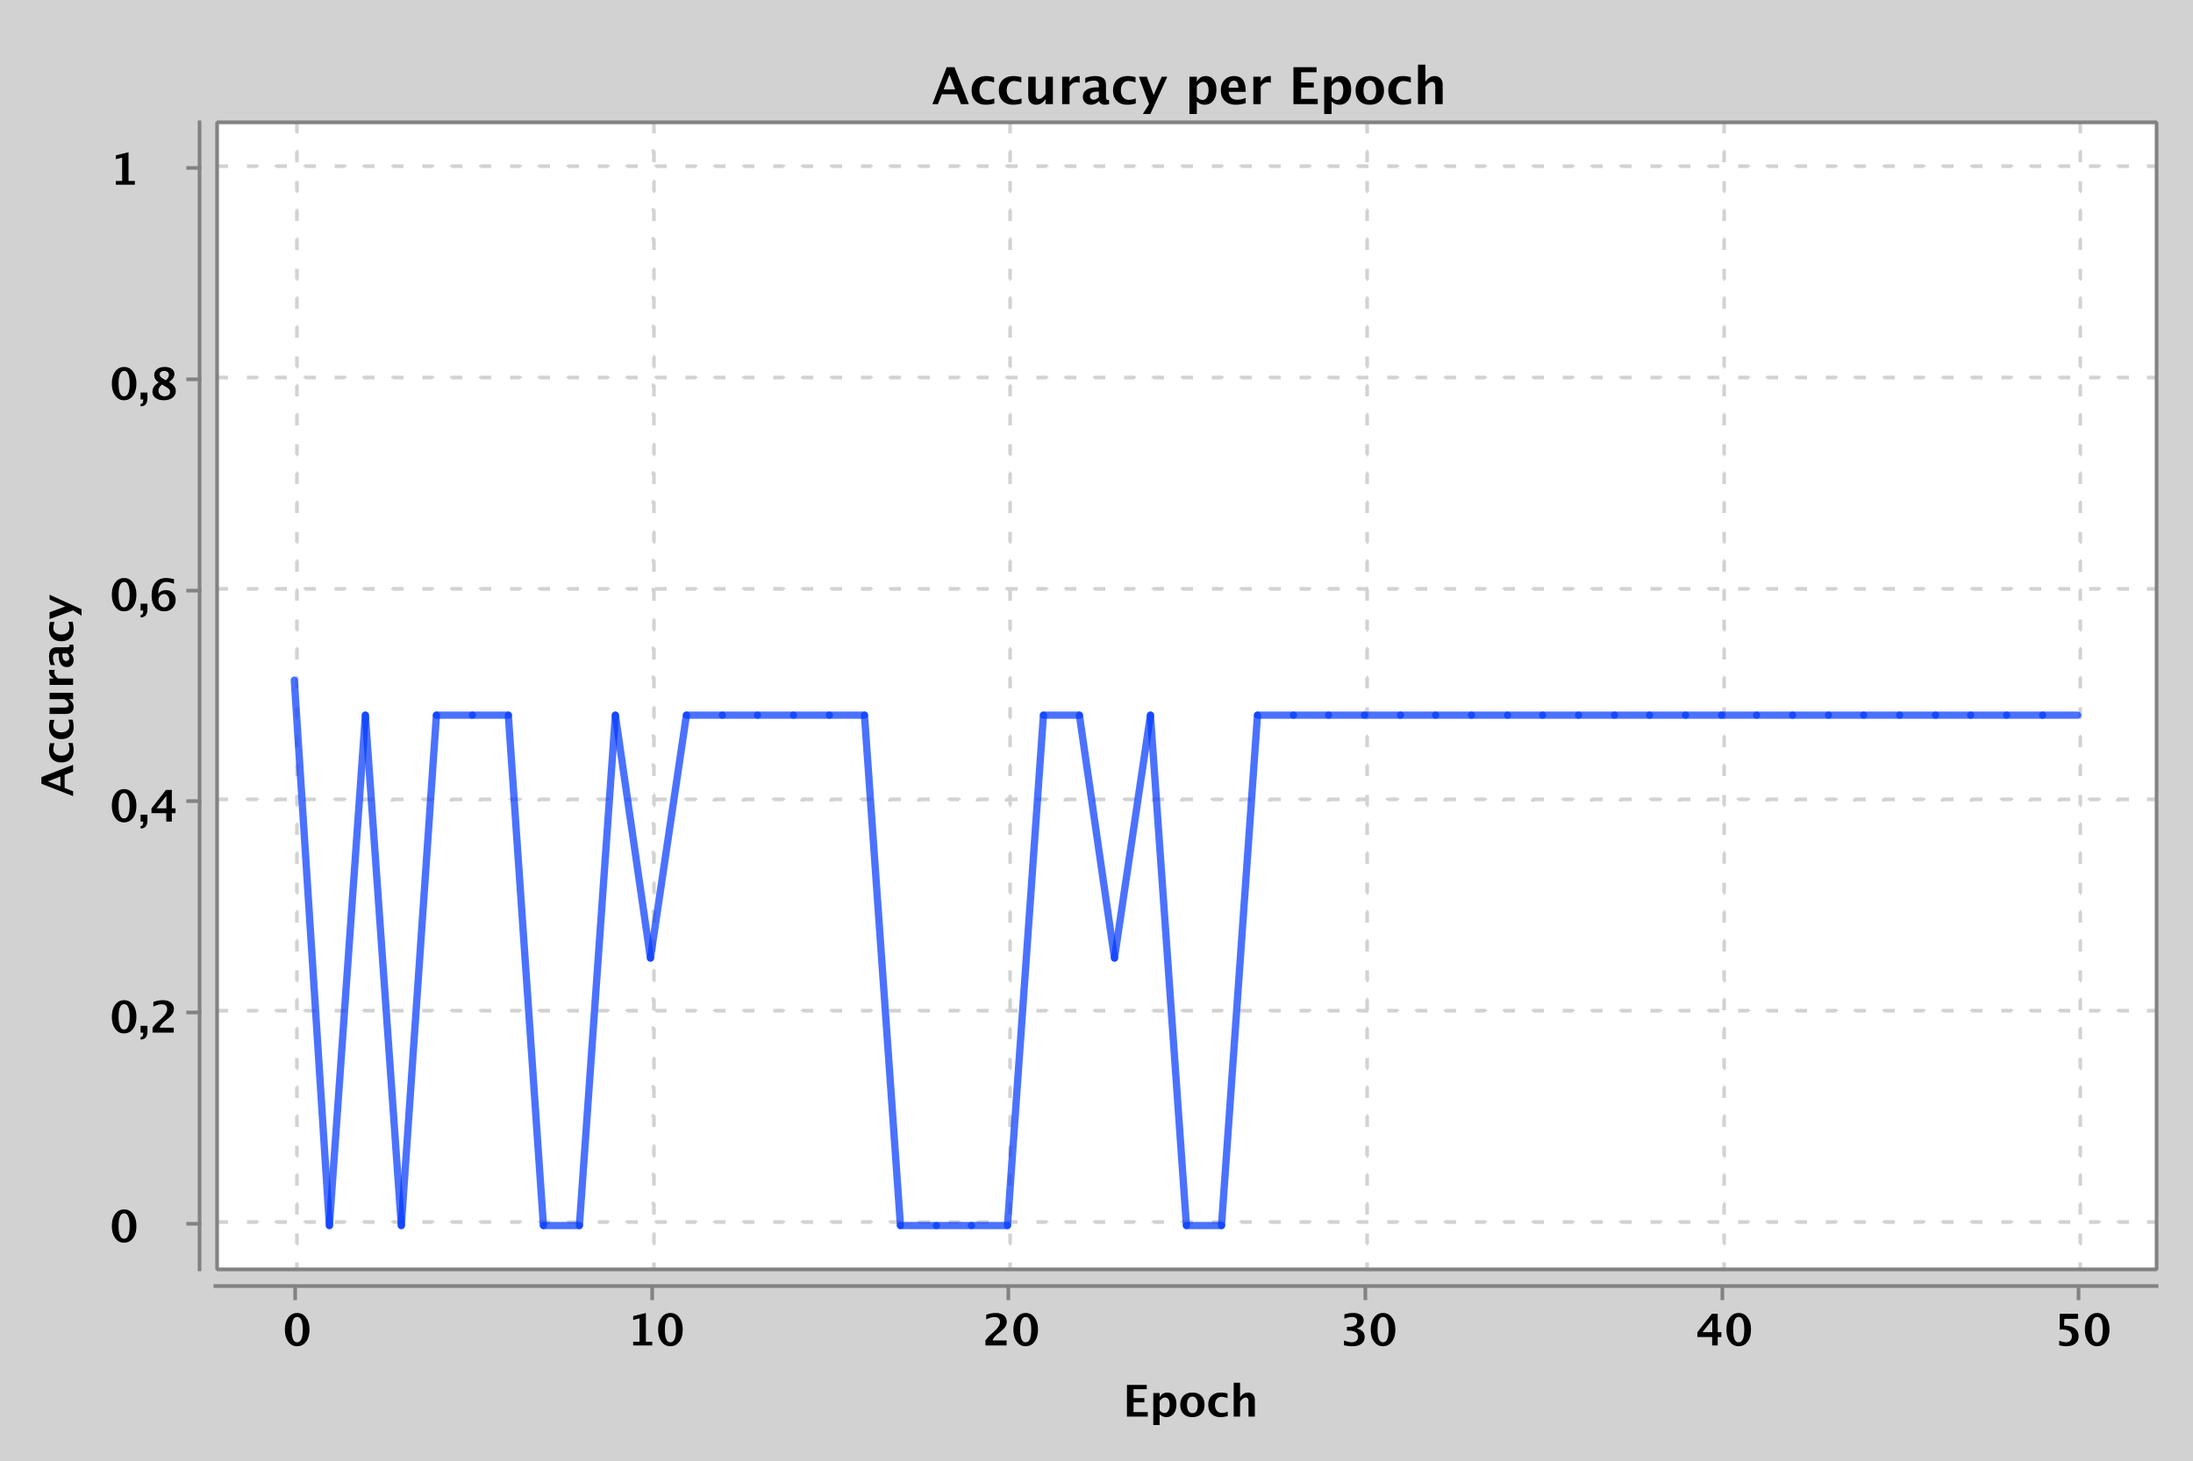
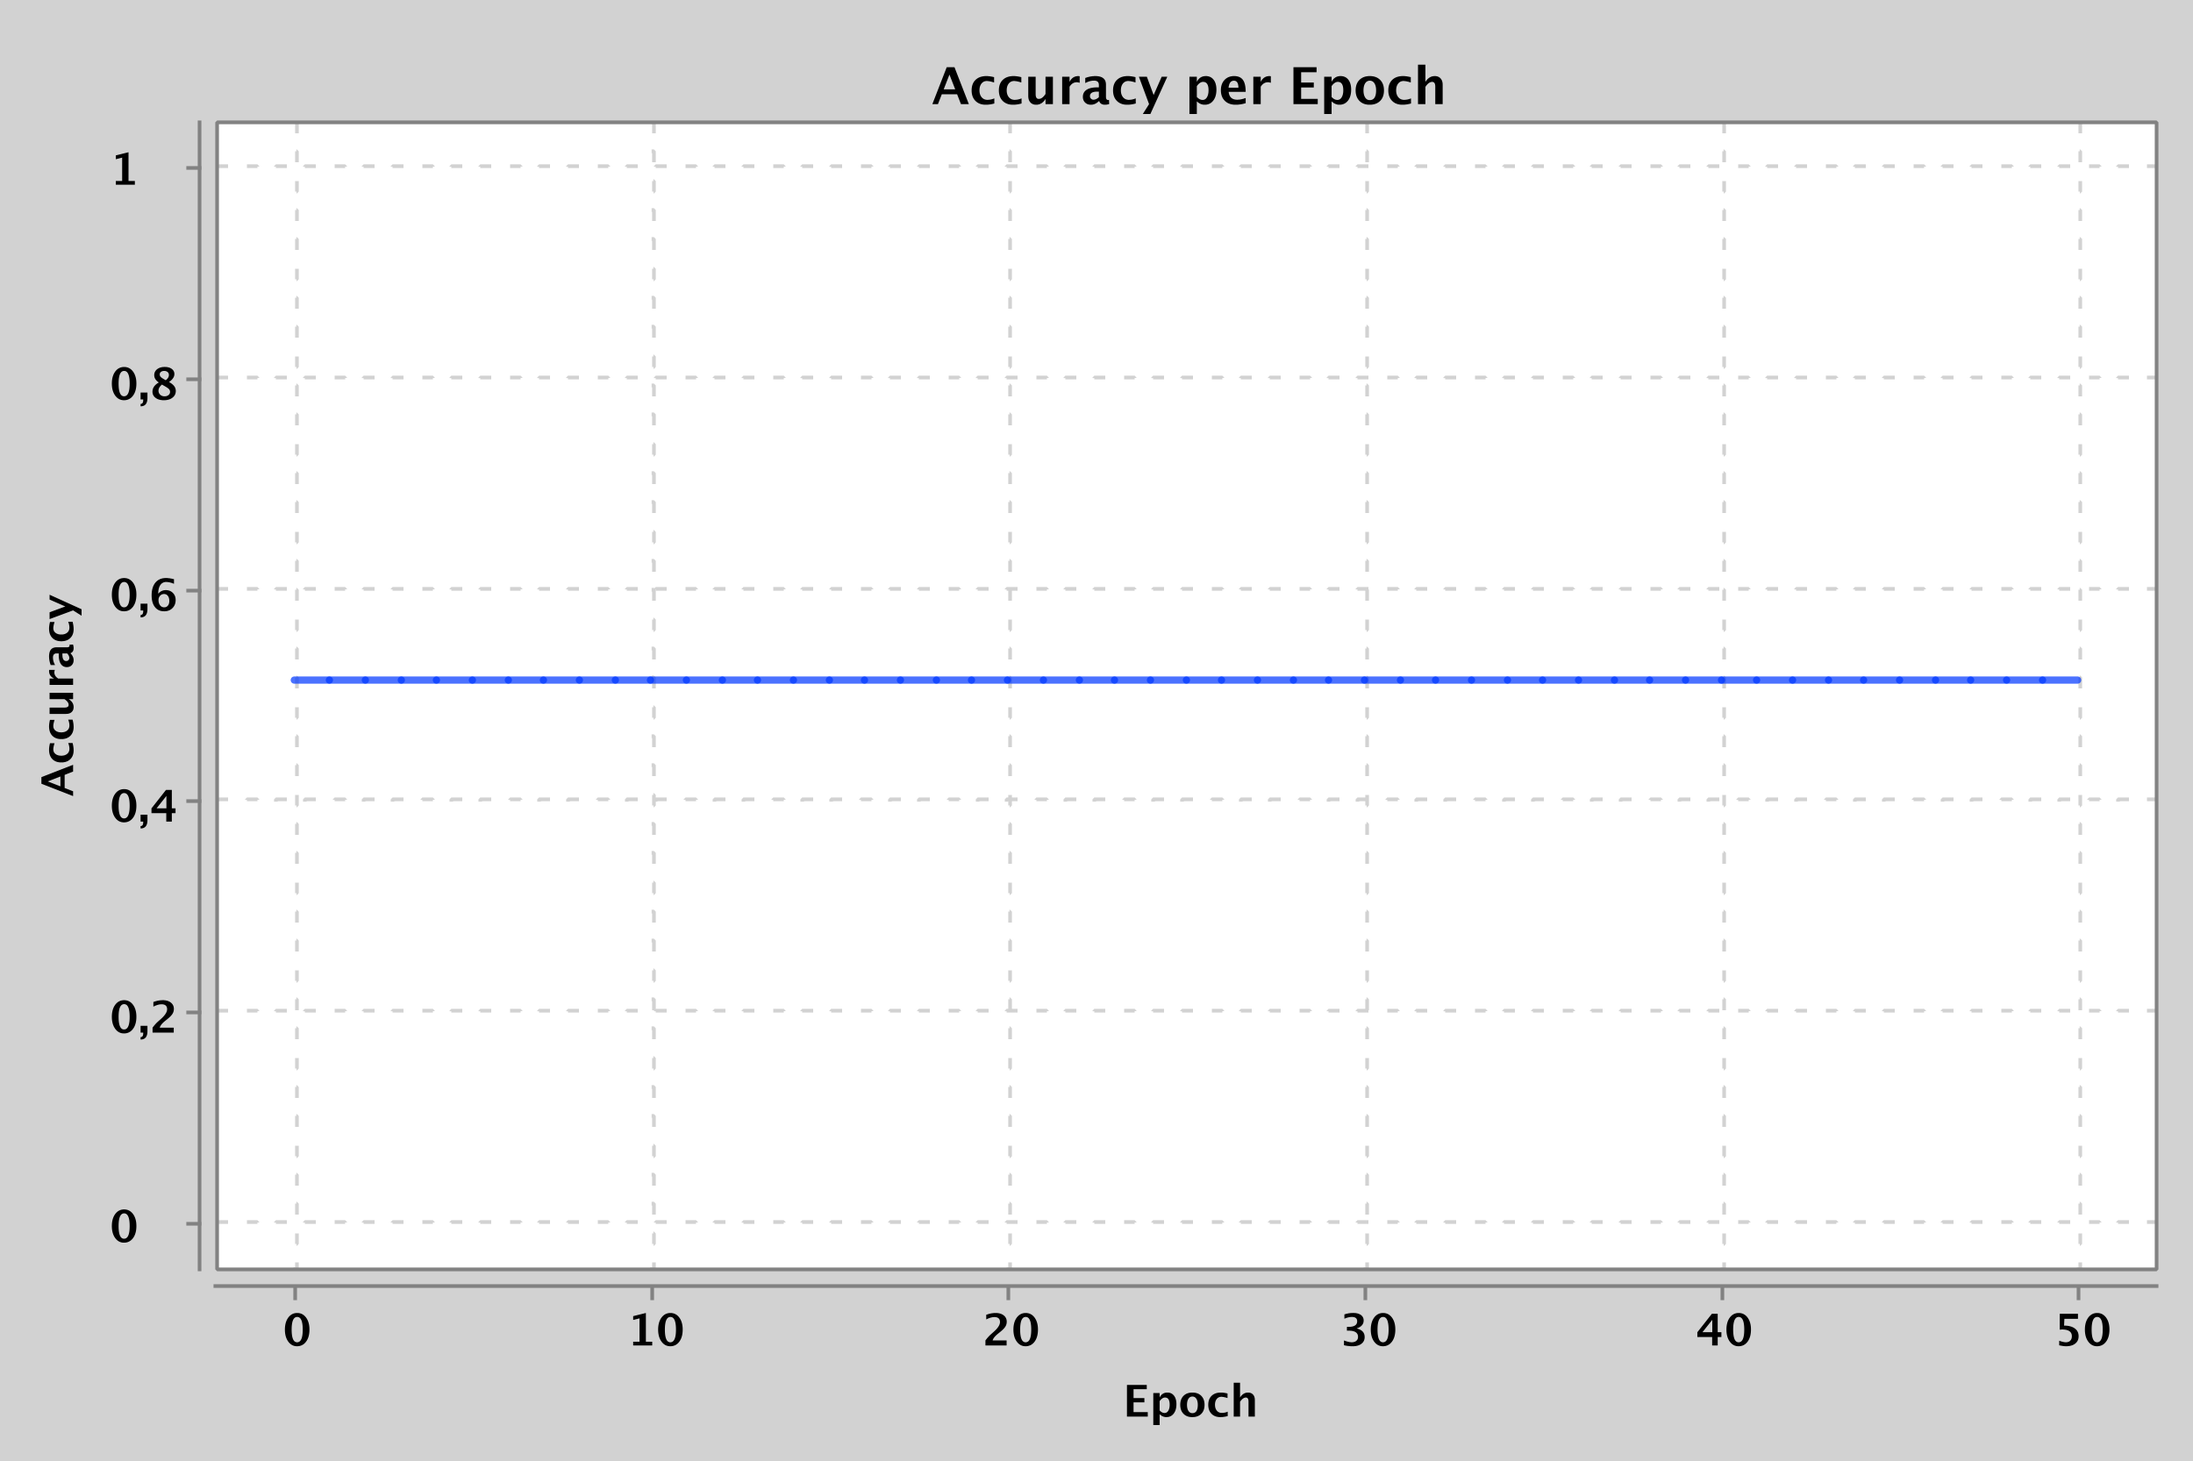
Exploding gradient error

Changed region(s): [[0.1248, 0.437, 0.936, 0.8427], [0.4056, 0.6867, 0.468, 0.8427]]

diff --git a/src/main/java/neuralnetwork/NeuralNetwork.java b/src/main/java/neuralnetwork/NeuralNetwork.java
@@ -165,7 +165,7 @@ public class NeuralNetwork<M> implements Serializable {
     /**
      * Updates weights and biases and resets the batch adjusted deltas.
      */
-    private synchronized void learnFromDeltas() {
+    private void learnFromDeltas() {
         this.weights = this.optimizer.changeWeights(this.weights, this.dW);
         this.biases = this.optimizer.changeBiases(this.biases, this.dB);
 
@@ -185,7 +185,7 @@ public class NeuralNetwork<M> implements Serializable {
         Matrix<M> deltaError = costFunction.applyCostFunctionGradient(a, in.getLabel());
 
         // Iterate over all layers, they are indexed by the last layer
-        for (int k = deltaBiases.size() - 1; k >= 0; k--) {
+        for (int k = totalLayers - 1; k >= 0; k--) {
             final Matrix<M> aCurr = activations.get(k + 1); // this layer
             final Matrix<M> aNext = activations.get(k); // Previous layer
 
@@ -263,16 +263,16 @@ public class NeuralNetwork<M> implements Serializable {
         return avg / size;
     }
 
+    public double testLoss(List<NetworkInput<M>> right) {
+        return loss(feedForwardData(right));
+    }
+
     private double loss(List<NetworkInput<M>> data) {
         return this.costFunction.calculateCostFunction(data);
     }
 
     private double evaluate(final List<NetworkInput<M>> data) {
         return this.evaluationFunction.evaluatePrediction(data);
-    }
-
-    public double testLoss(List<NetworkInput<M>> right) {
-        return loss(feedForwardData(right));
     }
 
     /**
@@ -374,7 +374,7 @@ public class NeuralNetwork<M> implements Serializable {
         double loss = this.loss(ffD);
         metrics.initialPlotData(correct, loss);
 
-        for (int i = 0; i < epochs; i++) {
+        for (int i = 1; i <= epochs; i++) {
 
             // Calculates a batch of training data and update the deltas.
             t1 = System.nanoTime();
@@ -384,20 +384,21 @@ public class NeuralNetwork<M> implements Serializable {
             }
             t2 = System.nanoTime();
 
-            // Feed forward the test data
+            // Feed forward the validation data
+            Collections.shuffle(validation);
             final List<NetworkInput<M>> feedForwardData = this.feedForwardData(validation);
 
             // Evaluate prediction with the interface EvaluationFunction.
-            correct = evaluate(feedForwardData);
+            correct = this.evaluate(feedForwardData);
             // Calculate cost/loss with the interface CostFunction
             loss = this.loss(feedForwardData);
 
             // Add the plotting data, x, y_1, y_2 to the
             // lists of xValues, correctValues, lossValues.
-            metrics.addPlotData(i + 1, correct, loss, (t2 - t1));
+            metrics.addPlotData(i, correct, loss, (t2 - t1));
 
-            if ((i) % (epochs / 8) == 0) {
-                log.info("\n {} / {} epochs are finished.\n Loss: \t {}", (i + 1), epochs, loss);
+            if ((i - 1) % (epochs / 8) == 0) {
+                log.info("\n {} / {} epochs are finished.\n Loss: \t {}", (i), epochs, loss);
             }
         }
 
@@ -472,8 +473,8 @@ public class NeuralNetwork<M> implements Serializable {
 
         for (int i = 0; i < weights.size(); i++) {
             final int[] dims = weightDimensions(i);
-            b.append(String.format("\t\tLayer %d : [%d X %d]%n", (i + 1), dims[0], dims[1]))
-                    .append(String.format("\t\tActivation function from this layer: %s", functions.get(i).getName()))
+            b.append(String.format("\t\tLayer %d : [%d X %d]%n", (i + 1), dims[0], dims[1])).append(
+                    String.format("\t\tActivation function from this layer: %s", functions.get(i + 1).getName()))
                     .append("\n");
         }
 

diff --git a/src/main/java/optimizers/ADAM.java b/src/main/java/optimizers/ADAM.java
@@ -15,6 +15,7 @@ public class ADAM<M> implements Optimizer<M> {
      */
     private static final long serialVersionUID = -1433313645095435888L;
     private static final String NAME = "Adaptive Moment Estimation";
+    private static final double epsilon = 1e-8;
     private final double lR;
     private final double beta1;
     private final double beta2;
@@ -29,7 +30,6 @@ public class ADAM<M> implements Optimizer<M> {
 
     @Override
     public List<Matrix<M>> changeWeights(final List<Matrix<M>> weights, final List<Matrix<M>> deltas) {
-        log.info("{}",getAdamDeltas(weights, deltas, this.weightM, this.weightN));
         return getAdamDeltas(weights, deltas, this.weightM, this.weightN);
     }
 
@@ -38,9 +38,13 @@ public class ADAM<M> implements Optimizer<M> {
         return getAdamDeltas(biases, deltas, this.biasM, this.biasN);
     }
 
-    private List<Matrix<M>> getAdamDeltas(final List<Matrix<M>> inParams, final List<Matrix<M>> paramDeltas, final List<Matrix<M>> M,
-                                          final List<Matrix<M>> N) {
+    private List<Matrix<M>> getAdamDeltas(final List<Matrix<M>> inParams, final List<Matrix<M>> paramDeltas,
+            final List<Matrix<M>> M, final List<Matrix<M>> N) {
         List<Matrix<M>> newOut = new ArrayList<>(inParams.size());
+
+        for (int i = 0; i < inParams.size(); i++) {
+            newOut.add(i, null);
+        }
 
         for (int i = 0; i < inParams.size(); i++) {
             int exponent = i + 1;
@@ -49,15 +53,19 @@ public class ADAM<M> implements Optimizer<M> {
             if (M.get(i) != null && N.get(i) != null) {
                 // m = beta_1 * m + (1 - beta_1) * g
                 // v = beta_2 * v + (1 - beta_2) * np.power(g, 2)
-                M.set(i, M.get(i).multiply(beta1).add(paramDeltas.get(i)).multiply((1 - beta1)));
-                N.set(i, N.get(i).multiply(beta2).add(paramDeltas.get(i).multiply(paramDeltas.get(i)).multiply((1 - beta2))));
+                Matrix<M> m = M.get(i).multiply(beta1).add(paramDeltas.get(i).multiply((1 - beta1)));
+                Matrix<M> v = N.get(i).multiply(beta2)
+                        .add(paramDeltas.get(i).hadamard(paramDeltas.get(i)).multiply((1 - beta2)));
+                M.set(i, m);
+                N.set(i, v);
             } else {
-                M.set(i, paramDeltas.get(i).multiply((1 - beta1)));
-                N.set(i, paramDeltas.get(i).multiply(paramDeltas.get(i).multiply((1 - beta2))));
+                M.set(i, paramDeltas.get(i).multiply(1 - beta1));
+                Matrix<M> fix = paramDeltas.get(i).hadamard(paramDeltas.get(i)).multiply(1 - beta2);
+                N.set(i, fix);
             }
             mHat = M.get(i).divide((1 - Math.pow(beta1, exponent)));
             vHat = N.get(i).divide((1 - Math.pow(beta2, exponent)));
-            Matrix<M> deNom = vHat.mapElements(Math::sqrt).add(10e-8);
+            Matrix<M> deNom = vHat.mapElements(Math::sqrt).add(epsilon);
             Matrix<M> num = mHat.multiply(this.lR);
             Matrix<M> adam = num.divide(deNom);
             newOut.set(i, inParams.get(i).subtract(adam));
@@ -71,6 +79,13 @@ public class ADAM<M> implements Optimizer<M> {
         this.weightN = new ArrayList<>(layers);
         this.biasM = new ArrayList<>(layers);
         this.biasN = new ArrayList<>(layers);
+
+        for (int i = 0; i < layers; i++) {
+            this.weightM.add(null);
+            this.weightN.add(null);
+            this.biasM.add(null);
+            this.biasN.add(null);
+        }
     }
 
     @Override

diff --git a/src/main/java/demos/implementations/SandboxXOR.java b/src/main/java/demos/implementations/SandboxXOR.java
@@ -6,6 +6,8 @@ import java.util.List;
 import java.util.concurrent.ThreadLocalRandom;
 
 import demos.AbstractDemo;
+import math.activations.ActivationFunction;
+import math.activations.LeakyReluFunction;
 import math.activations.TanhFunction;
 import math.error_functions.MeanSquaredCostFunction;
 import math.evaluation.ThresholdEvaluationFunction;
@@ -15,6 +17,7 @@ import neuralnetwork.NeuralNetwork;
 import neuralnetwork.initialiser.InitialisationMethod;
 import neuralnetwork.initialiser.OjAlgoFactory;
 import neuralnetwork.inputs.NetworkInput;
+import optimizers.ADAM;
 import optimizers.StochasticGradientDescent;
 import utilities.types.Pair;
 import utilities.types.Triple;
@@ -35,7 +38,7 @@ public class SandboxXOR extends AbstractDemo<OjAlgoMatrix> {
 
     @Override
     protected Pair<Integer, Integer> epochBatch() {
-        return Pair.of(50, 64);
+        return Pair.of(50, 1);
     }
 
     @Override
@@ -60,13 +63,15 @@ public class SandboxXOR extends AbstractDemo<OjAlgoMatrix> {
 
     @Override
     protected NeuralNetwork<OjAlgoMatrix> createNetwork() {
+        ActivationFunction<OjAlgoMatrix> f = new LeakyReluFunction<>(0.1);
         NeuralNetwork<OjAlgoMatrix> network = new NeuralNetwork<>(
-                new NetworkBuilder<OjAlgoMatrix>(4).setFirstLayer(2).setLayer(3, new TanhFunction<>())
-                        .setLayer(3, new TanhFunction<>()).setLastLayer(1, new TanhFunction<>())
+                new NetworkBuilder<OjAlgoMatrix>(5).setFirstLayer(2).setLayer(35, f).setLayer(35, f)
+                        .setLayer(20, new TanhFunction<>()).setLastLayer(1, f)
                         .setCostFunction(new MeanSquaredCostFunction<>())
                         .setEvaluationFunction(new ThresholdEvaluationFunction<>(0.1))
-                        .setOptimizer(new StochasticGradientDescent<>(0.6)),
-                new OjAlgoFactory(new int[] { 2, 3, 3, 1 }, InitialisationMethod.XAVIER, InitialisationMethod.SCALAR));
+                        .setOptimizer(new ADAM<>(0.001, 0.9, 0.999)),
+                new OjAlgoFactory(new int[] { 2, 35, 35, 20, 1 }, InitialisationMethod.XAVIER,
+                        InitialisationMethod.SCALAR));
         return network;
     }
 

diff --git a/src/main/java/neuralnetwork/initialiser/UJMPFactory.java b/src/main/java/neuralnetwork/initialiser/UJMPFactory.java
@@ -48,12 +48,13 @@ public class UJMPFactory extends ParameterFactory<UJMPMatrix> {
 
     @NotNull
     private List<Matrix<UJMPMatrix>> getDeltaParameters(boolean isBias) {
-        List<Matrix<UJMPMatrix>> deltaBiases = new ArrayList<>();
+        List<Matrix<UJMPMatrix>> deltaParams = new ArrayList<>();
+        InitialisationMethod m = InitialisationMethod.ZERO;
         for (int i = 0; i < this.sizes.length - 1; i++) {
             int current = this.sizes[i + 1];
-            int next = this.sizes[i];
-            deltaBiases.add(new UJMPMatrix(ZERO.initialisationValues(0, current, isBias ? 1 : next), current, isBias ? 1 : next));
+            int next = isBias ? 1 : this.sizes[i];
+            deltaParams.add(new UJMPMatrix(m.initialisationValues(0, current, next), current, next));
         }
-        return deltaBiases;
+        return deltaParams;
     }
 }

diff --git a/src/main/java/math/error_functions/MeanSquaredCostFunction.java b/src/main/java/math/error_functions/MeanSquaredCostFunction.java
@@ -12,14 +12,14 @@ public class MeanSquaredCostFunction<M> implements CostFunction<M> {
 
     @Override
     public double calculateCostFunction(final List<NetworkInput<M>> tData) {
-        return tData.parallelStream().map((e) -> e.getData().subtract(e.getLabel()))
-                .mapToDouble(e -> e.square()).sum() / tData.size();
+        return tData.parallelStream().map((e) -> e.getData().subtract(e.getLabel())).mapToDouble(e -> e.square()).sum()
+                / tData.size();
 
     }
 
     @Override
     public Matrix<M> applyCostFunctionGradient(final Matrix<M> in, final Matrix<M> correct) {
-        return in.subtract(correct).multiply(2);
+        return correct.subtract(in).multiply(2);
     }
 
     @Override

diff --git a/src/main/java/math/activations/LeakyReluFunction.java b/src/main/java/math/activations/LeakyReluFunction.java
@@ -4,7 +4,6 @@ import math.linearalgebra.Matrix;
 
 public class LeakyReluFunction<M> extends ReluFunction<M> {
 
-
     private static final long serialVersionUID = -301187113858930644L;
     private final double alpha;
 
@@ -19,12 +18,13 @@ public class LeakyReluFunction<M> extends ReluFunction<M> {
     }
 
     @Override
-    public Matrix<M> derivative(Matrix<M> in) {
-        return in.mapElements((e) -> e > 0 ? e : alpha);
+    public Matrix<M> function(Matrix<M> in) {
+        return in.mapElements((e) -> e > 0 ? e : alpha * e);
     }
 
     @Override
-    public Matrix<M> function(Matrix<M> in) {
+    public Matrix<M> derivative(Matrix<M> in) {
         return in.mapElements((e) -> e > 0 ? 1 : alpha);
     }
+
 }

diff --git a/src/main/java/neuralnetwork/initialiser/OjAlgoFactory.java b/src/main/java/neuralnetwork/initialiser/OjAlgoFactory.java
@@ -46,10 +46,11 @@ public class OjAlgoFactory extends ParameterFactory<OjAlgoMatrix> {
     @NotNull
     private List<Matrix<OjAlgoMatrix>> getDeltaParameters(boolean isBias) {
         List<Matrix<OjAlgoMatrix>> deltaParams = new ArrayList<>();
+        InitialisationMethod m = InitialisationMethod.ZERO;
         for (int i = 0; i < this.sizes.length - 1; i++) {
             int current = this.sizes[i + 1];
             int next = isBias ? 1 : this.sizes[i];
-            deltaParams.add(new OjAlgoMatrix(this.wM.initialisationValues(0, current, next), current, next));
+            deltaParams.add(new OjAlgoMatrix(m.initialisationValues(0, current, next), current, next));
         }
         return deltaParams;
     }

diff --git a/src/main/java/math/activations/DoNothingFunction.java b/src/main/java/math/activations/DoNothingFunction.java
@@ -1,11 +1,27 @@
 package math.activations;
 
-public class DoNothingFunction<M> extends LinearFunction<M> {
+import math.linearalgebra.Matrix;
+
+public class DoNothingFunction<M> extends ActivationFunction<M> {
 
     private static final long serialVersionUID = -1697257154018408060L;
 
     public DoNothingFunction() {
-        super(1);
+    }
+
+    @Override
+    public String getName() {
+        return "DoNothing";
+    }
+
+    @Override
+    public Matrix<M> function(Matrix<M> m) {
+        return m;
+    }
+
+    @Override
+    public Matrix<M> derivative(Matrix<M> m) {
+        return m;
     }
 
 }

diff --git a/src/main/java/demos/AbstractDemo.java b/src/main/java/demos/AbstractDemo.java
@@ -21,6 +21,8 @@ public abstract class AbstractDemo<M> {
         final TrainingMethod trainingMethod = networkTrainingMethod();
         final String outputPath = outputDirectory();
 
+        network.display();
+
         switch (trainingMethod) {
             case METRICS:
                 network.trainWithMetrics(trainValidateTest.getLeft(), trainValidateTest.getMiddle(), epochBatch.left(),

diff --git a/src/main/java/math/linearalgebra/Matrix.java b/src/main/java/math/linearalgebra/Matrix.java
@@ -31,6 +31,12 @@ public abstract class Matrix<M> {
      */
     public abstract Matrix<M> multiply(Matrix<M> otherMatrix);
 
+    /**
+     * Element wise multiplication of two matrices.
+     * 
+     * @param otherMatrix right operand
+     * @return new element wise multiplied matrix
+     */
     public abstract Matrix<M> hadamard(Matrix<M> otherMatrix);
 
     /**
